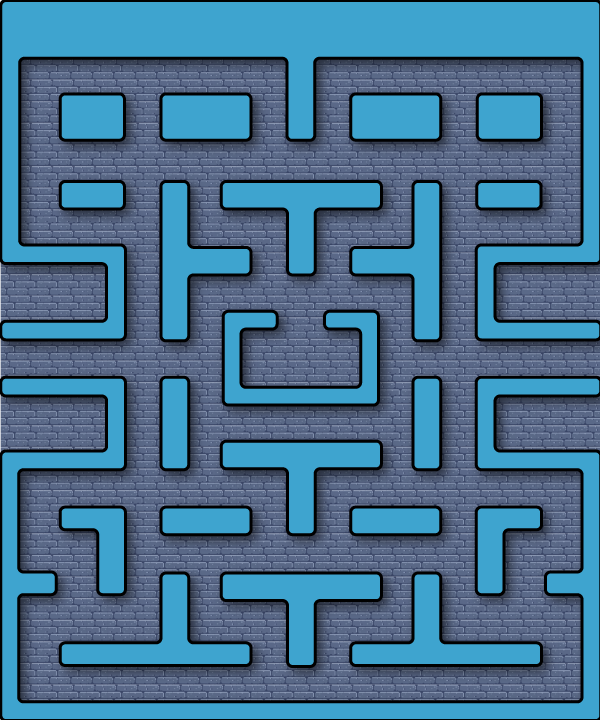
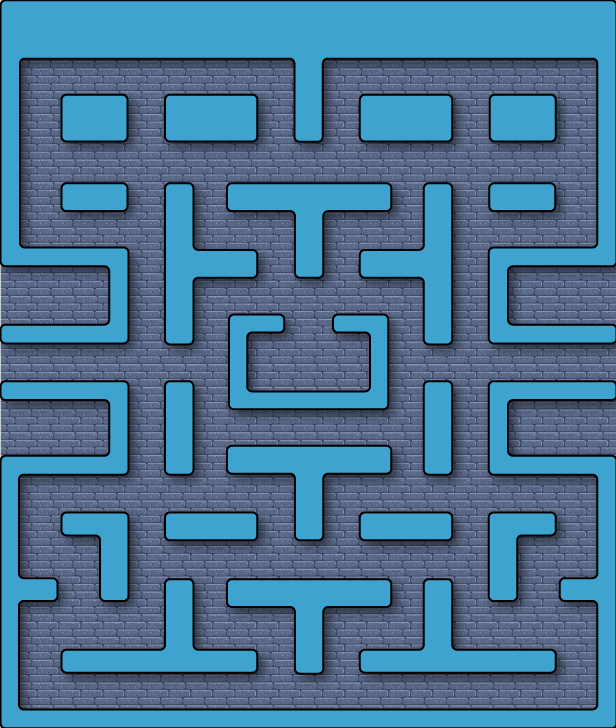
Screens 1

Changed region(s): [[0.0, 0.0, 1.0, 1.0]]

diff --git a/src/Main.java b/src/Main.java
@@ -3,35 +3,35 @@ import processing.core.PImage;
 
 public class Main extends PApplet{
 
+	public Screens screens;
 	public Calcifer player;
-	PImage bg;
-
-
-
-	public boolean movR;
-	public boolean movL;
-	public boolean movU;
-	public boolean movD;
 
 	public static void main(String[] args) {
 		// TODO Auto-generated method stub
 		PApplet.main("Main");
 	}
+	
+	public boolean movR;
+	public boolean movL;
+	public boolean movU;
+	public boolean movD;
 
 	int [][] maze;
 	int col, row;	
+	int matX , matY;
+	int screen;
 
 	public void settings() {
-		size(600, 720);
+		size(616, 728);
 	}
 
 	public void setup() {
-		player = new Calcifer(290, 540, 3, this);
-		bg = loadImage("./Resources/maze.png");
+		player = new Calcifer(290, 540, 5, this);
+		screens = new Screens(this);
 
 		col=28;
 		row= 33;
-
+		screen=1;
 		maze = new int [][] {
 				// 1  2  3  4  5  6  7  8  9 10 11 12 13 14 15 16 17 18 19 20 21 22 23 24 25 26 27 28
 
@@ -75,10 +75,11 @@ public class Main extends PApplet{
 	}
 
 	public void draw() {
-		//background (0);
+		background (0);
 
-		image(bg,0,0);
 
+		
+		
 		
 
 		for (int i = 0; i < col; i++) {
@@ -91,8 +92,28 @@ public class Main extends PApplet{
 					fill(255,0,0);
 				}
 				
-				rect( (i*21),(j*21),21,21);
+				rect( (i*22),(j*22),22,22);
 			}
+			
+			switch (screen) {
+			case 1:
+				screens.screen1();
+				break;
+				
+			case 2:
+				screens.screen2();
+				break;
+
+			case 3:
+				screens.screen3(); //scores
+				break;
+				
+			case 4:
+				screens.maze();
+				break;
+			}
+			
+			
 		}
 
 		

diff --git a/src/Screens.java b/src/Screens.java
@@ -1,0 +1,50 @@
+import processing.core.PApplet;
+import processing.core.PImage;
+
+public class Screens {
+
+
+	PApplet app;
+	PImage screen1;
+	PImage screen2;
+	PImage screen3;
+	PImage maze;
+	
+	public Screens (PApplet app) {
+		
+		this.app = app;
+		
+		screen1=app.loadImage("./Resources/screen1.png");
+		screen2=app.loadImage("./Resources/screen2.png");
+		screen3=app.loadImage("./Resources/screen3.png");
+		maze=app.loadImage("./Resources/maze.png");
+		
+	}
+	
+
+	public void screen1(){
+
+		app.image (screen1, 0, 0);
+		
+
+	}
+
+	public void screen2(){
+
+		app.image (screen2, 0, 0);
+
+	}
+
+
+	public void screen3(){
+
+		app.image (screen3, 0, 0);
+	}
+	
+	public void maze() {
+		
+		app.image (maze, 0, 0);
+		
+	}
+
+}

diff --git a/src/Characters.java b/src/Characters.java
@@ -4,8 +4,6 @@ public abstract class Characters {
 	protected int posX;
 	protected int posY;
 	protected int speed;
-	protected int matX;
-	protected int matY;
 
 	public Characters(int posx, int posy, int speed) {
 
@@ -15,22 +13,7 @@ public abstract class Characters {
 		this.speed = speed;	
 	}
 	
-	
-	public int getMatX() {
-		return matX;
-	}
 
-	public void setMatX(int matX) {
-		this.matX = matX;
-	}
-
-	public int getMatY() {
-		return matY;
-	}
-
-	public void setMatY(int matY) {
-		this.matY = matY;
-	}
 
 	protected abstract void paint();
 
